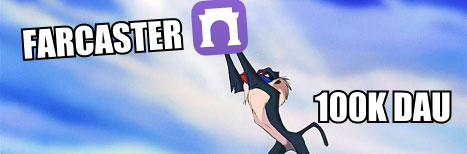
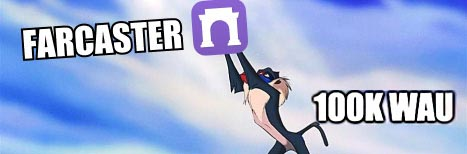
fix: market metadata update

Changed region(s): [[0.6595, 0.5714, 0.9893, 0.8312], [0.5396, 0.4675, 0.5696, 0.4935], [0.1799, 0.1558, 0.2099, 0.1818]]

diff --git a/src/constants/markets.ts b/src/constants/markets.ts
@@ -14,7 +14,7 @@ export const markets: Market[] = [
[1 lines of base64/hex data omitted]
     },
     outcomeTokens: ['Yes', 'No'],
-    title: 'Will $DEGEN have 1M+ holders by end of 2024?',
+    title: 'Will $DEGEN have 1M+ holders by the end of 2024?',
     description:
       'Bet on whether $DEGEN will reach over 1 million holders by the close of 2024! Place your stake and predict the future of the $DEGEN community growth.',
     placeholderURI: '/assets/images/markets/market1-placeholder.jpg',
@@ -40,8 +40,8 @@ export const markets: Market[] = [
[1 lines of base64/hex data omitted]
     },
     outcomeTokens: ['Yes', 'No'],
-    title: 'Will Farcaster hit 100k DAUs before Farcon?',
-    description: `Think Farcaster will hit 100k DAUs before Farcon finishes on May 5? Bet on your belief and see if Farcaster blows up again!`,
+    title: 'Will Farcaster hit 100k WAUs before the end of Farcon?',
+    description: `Think Farcaster will hit 100k WAUs before Farcon finishes on May 5? Bet on your belief and see if Farcaster blows up again!`,
     placeholderURI: '/assets/images/markets/market2-placeholder.jpg',
     imageURI: '/assets/images/markets/market2.jpg',
     ogImageURI: '/assets/images/markets/market2-og.jpg',
